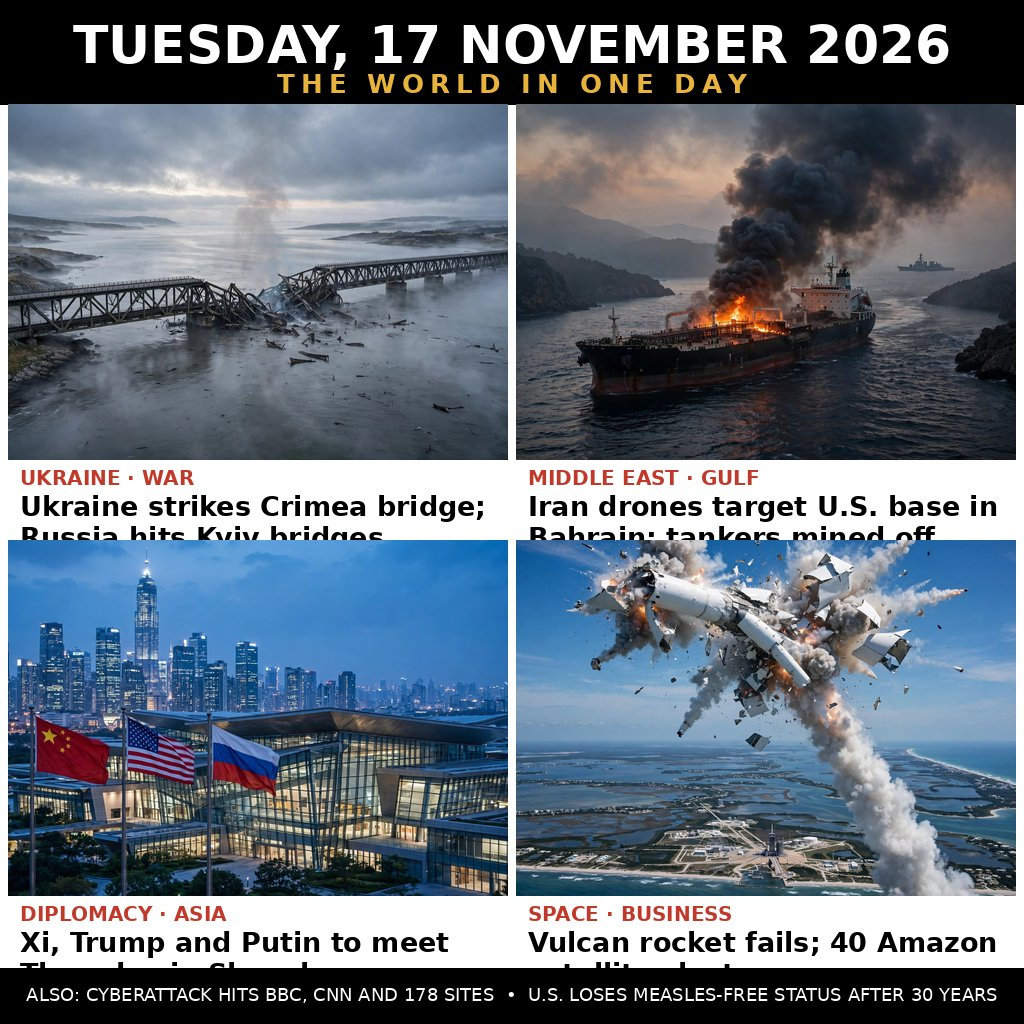
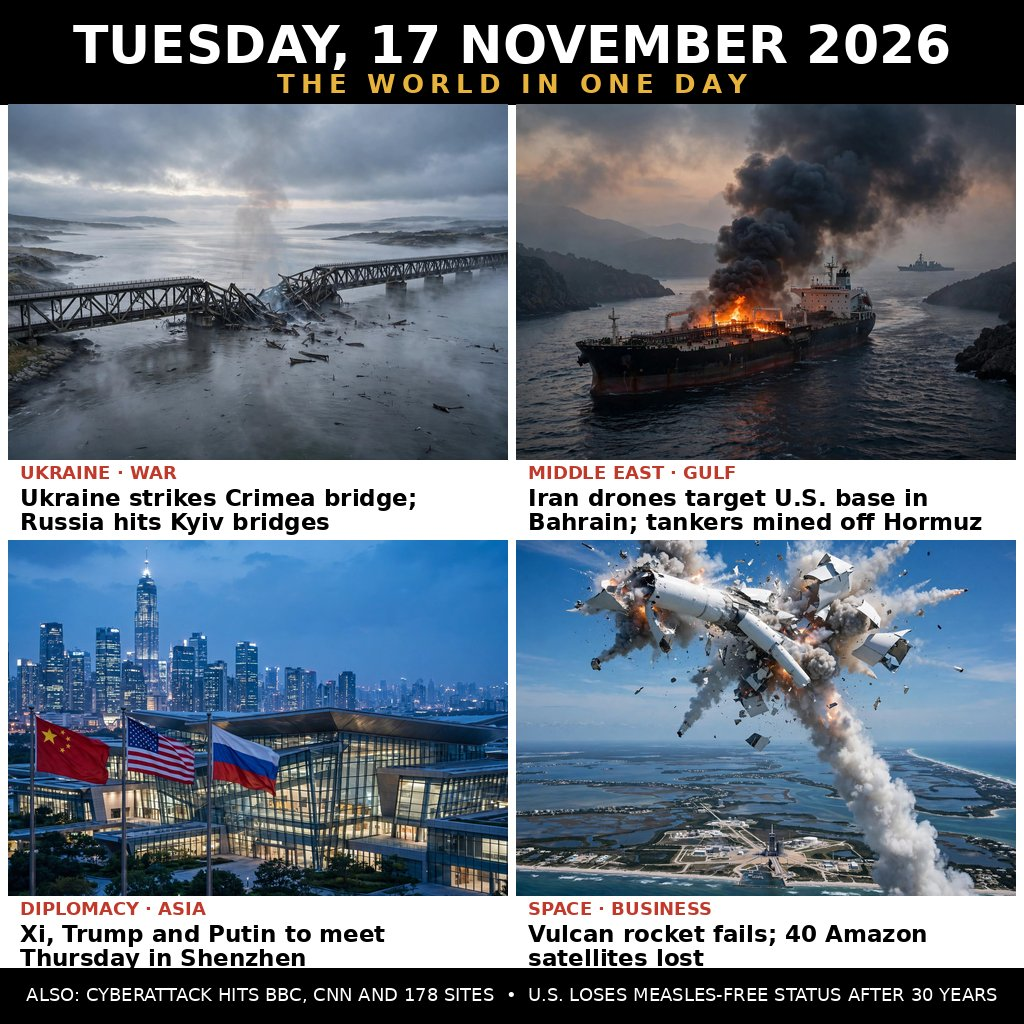
Fix caption overflow: shrink headlines 27px to 23px and tighten caption spacing so both headline lines fit inside the 72px caption bar

diff --git a/compose.py b/compose.py
@@ -150,23 +150,26 @@ def compose():
         src = Image.open(os.path.join(PANELS_DIR, panel["file"])).convert("RGB")
         canvas.paste(centre_crop_resize(src, CELL_W, PHOTO_H), (x0, y0))
 
-        # caption bar: kicker (red bold) + headline (black bold, max 2 lines)
+        # caption bar: kicker (red bold) + headline (black bold, max 2 lines).
+        # Both headline lines must fit inside the 72px bar: kicker 18px at
+        # +2, headline 23px starting at +24 with a 24px line pitch, so the
+        # second line ends at ~71px instead of overflowing into the next row.
         cap_y = y0 + PHOTO_H
         pad = 12
-        kicker_font = font(BOLD, 20)
-        draw.text((x0 + pad, cap_y + 6), panel["kicker"], font=kicker_font, fill=RED)
-        head_font = font(BOLD, 27)
+        kicker_font = font(BOLD, 18)
+        draw.text((x0 + pad, cap_y + 2), panel["kicker"], font=kicker_font, fill=RED)
+        head_font = font(BOLD, 23)
         max_w = CELL_W - 2 * pad
         lines = wrap_text(draw, panel["headline"], head_font, max_w)
-        size = 27
+        size = 23
         while len(lines) > 2 and size > 18:
             size -= 1
             head_font = font(BOLD, size)
             lines = wrap_text(draw, panel["headline"], head_font, max_w)
-        ly = cap_y + 30
+        ly = cap_y + 24
         for line in lines:
             draw.text((x0 + pad, ly), line, font=head_font, fill=BLACK)
-            ly += size + 4
+            ly += size + 1
 
     # --- footer ticker: black band, centred white text ---
     fy = H - FOOTER_H
